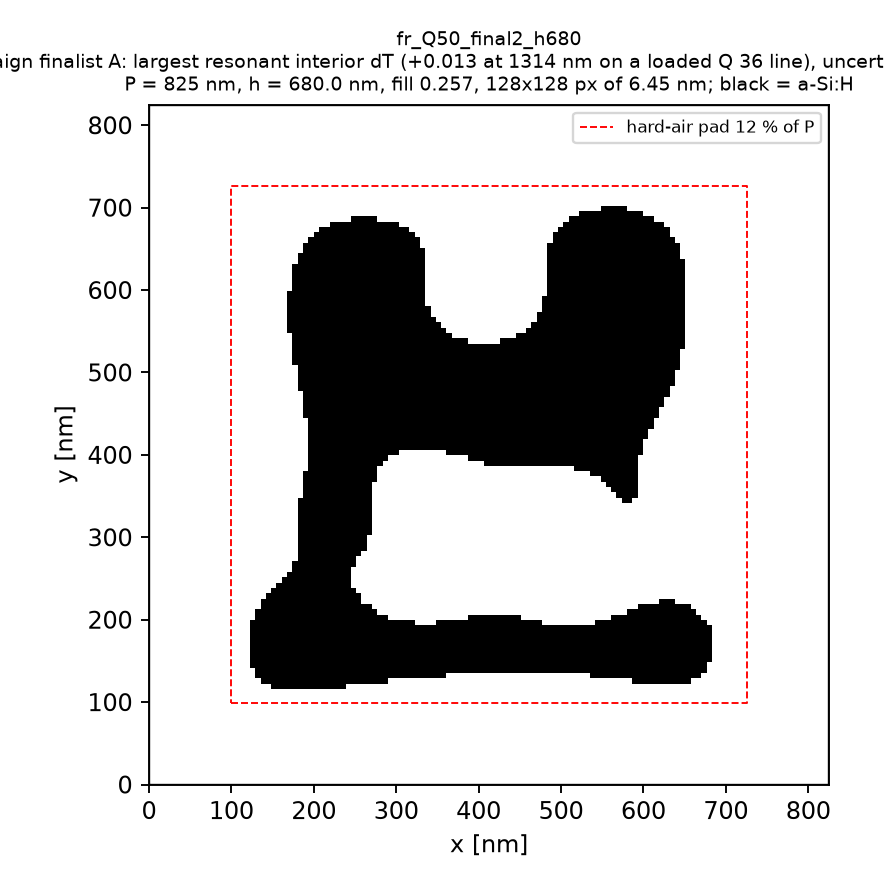
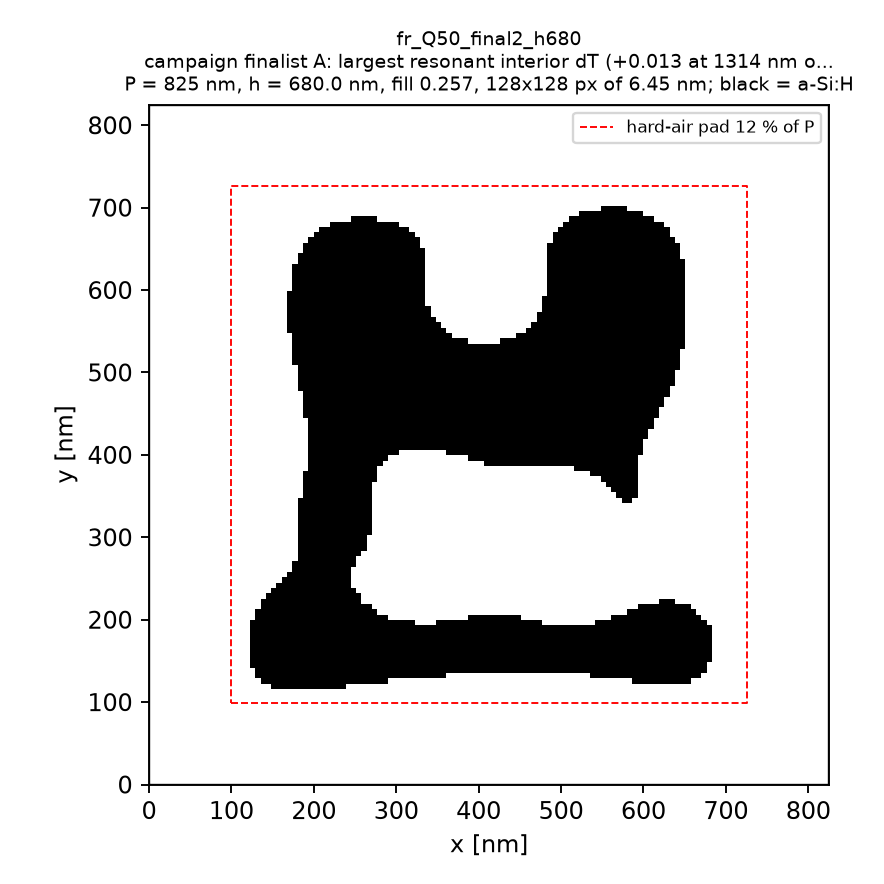
FDTDX validation: report section 15 (cross-check table, final reporting items), overview figure titles, manifest consistent with the recorded field wavelengths
Claude-Session: https://claude.ai/code/session_01XoECjUQZwmMZ4dNdjztZeN

Changed region(s): [[0.0, 0.0611, 1.0, 0.0916]]

diff --git a/enz_jz_inverse_design/qdz_activation/fdtdx_validation/register_finalists.py b/enz_jz_inverse_design/qdz_activation/fdtdx_validation/register_finalists.py
@@ -34,7 +34,7 @@ def geometry_png(rho, P, h, pad_frac, tag, role, path, ax=None):
         ax.plot([p, P - p, P - p, p, p], [p, p, P - p, P - p, p], "r--", lw=0.8, label=f"hard-air pad {pad_frac*100:.0f} % of P")
         ax.legend(fontsize=7, loc="upper right")
     ax.set_aspect("equal"); ax.set_xlabel("x [nm]"); ax.set_ylabel("y [nm]")
-    ax.set_title(f"{tag}\n{role}\nP = {P:.0f} nm, h = {h:.1f} nm, fill {rho.mean():.3f}, {rho.shape[0]}x{rho.shape[1]} px of {P/rho.shape[0]:.2f} nm; black = a-Si:H", fontsize=8)
+    ax.set_title(f"{tag}\n{role[:70] + ('...' if len(role) > 70 else '')}\nP = {P:.0f} nm, h = {h:.1f} nm, fill {rho.mean():.3f}, {rho.shape[0]}x{rho.shape[1]} px of {P/rho.shape[0]:.2f} nm; black = a-Si:H", fontsize=8)
     if own:
         fig.tight_layout(); fig.savefig(path, dpi=170); plt.close(fig)
 

diff --git a/enz_jz_inverse_design/qdz_activation/REPORT.md b/enz_jz_inverse_design/qdz_activation/REPORT.md
@@ -442,7 +442,54 @@ five a-Si:H depths, every ITO cell, five glass depths; one colour scale per wave
 log) with `.npz`; `Ez2_{xz,yz}_<tag>_<lam>nm.png` drawn with `pcolormesh` on the true non-uniform z edges (the
 23-nm ITO is read back at 23.00 nm in every run).
 
-FDTDX_RESULTS_PLACEHOLDER
+**Runs (`VALIDATION_SUMMARY.md` sections 2-4).**  All four candidates completed on the CPU backend (64 x 64 in-plane
+cells, 154-245 z cells, 34580-50435 steps, 690-1680 s each); no artefacts (R_max <= 0.33, T_min >= 0.06, A_min >= 0.05,
+TFSF leakage <= 2.5e-6 of P_inc), the ITO is read back at 23.00 nm from the true cell edges in every run, end-of-run probe
+fields are 1e-4-3e-3 of the peak (2.6e-2 in the ITO of finalist A, whose loaded line is the longest-lived of the three
+450-fs runs), and the early-window certificates show the DFT spectra converged: 450 fs vs 600 fs changes T by at most
+0.0056 for the cylinder (300 fs was not enough: 0.040), and 300 vs 450 fs by 0.034 (finalist A), 0.002 (finalist B),
+0.0001 (control).
+
+**H. Cross-check against TORCWA (same frozen geometry, same supplied materials, [9,9]):**
+
+| candidate | line depth / absorption (TORCWA -> FDTDX) | position | line shape after the shift | ITO <\|Ez\|^2>, F_z, A at equivalent detuning |
+|---|---|---|---|---|
+| deck cylinder | T_min 0.215 -> 0.213, A_max 0.465 -> 0.463 | FDTDX 5.5 nm blue of TORCWA (1292.5 -> 1286.0 nm); material fits explain 0.0 nm | rms dT 0.009, max dT / dR / dA 0.021 / 0.013 / 0.019 | 7.93 / 0.365 / 0.396 vs 7.76 / 0.350 / 0.380 at 1279 nm (2-4 %) |
+| finalist A (fr_Q50_final2_h680) | T_min 0.073 -> 0.060, A_max 0.900 -> 0.918 | 21.5 nm blue in FDTDX; 0.0 nm from material fits | rms dT 0.016, max 0.027 / 0.043 / 0.061 | 16.4 / 0.846 / 0.898 vs 17.8 / 0.869 / 0.916 at 1314 nm (2-8 %) |
+| finalist B (pilot_h525_Q50_fresh8080) | T_min 0.129 -> 0.140, A_max 0.758 -> 0.742 | 9.5 nm red in FDTDX (broadband, weakly defined); -1.0 nm from material fits | rms dT 0.013 (0.017 without any shift) | 15.5 / 0.675 / 0.702 vs 14.4 / 0.636 / 0.660 at 1271 nm (5-8 %) |
+| control (fr_Q200_fresh4242_h700) | flat: T 0.85-0.92, A <= 0.13 in both solvers; no loaded line in either | not defined (featureless) | rms dT 0.010 | 0.5-1.2 / 0.03-0.05 / 0.06-0.09 vs 0.5-0.8 / 0.03-0.04 / 0.06-0.07 |
+
+**L. Final reporting.**
+1. *Established by TORCWA:* the Stage A/B ranking of sections 7-13, the loss of the fresh4242 line under loading, the
+   cylinder's near-critically-coupled loaded line (exact loss scaling: Q_rad 86, Q_nr 126) and its dT = +0.019 at 1279 nm.
+2. *Independently reproduced by FDTDX:* the loaded line of the cylinder (depth, width, absorption), the strong
+   ITO-loaded absorption of both campaign finalists (A 0.74-0.92) with T of 0.06-0.2, the ABSENCE of any loaded line for
+   the campaign's transmissive high-Q / high-eta_Dz parent (T 0.85-0.92, A <= 0.09 across the whole window), and the ITO
+   longitudinal field enhancement (<|Ez/E_inc|^2> = 8 for the cylinder, 14-18 for the two finalists, < 1 for the
+   control) to 2-8 % at equivalent detuning.
+3. *What differs:* spectral positions.  FDTDX is blue-shifted by 5.5 nm for the cylinder and ~20 nm for the freeform
+   825-nm cells; the material fits contribute 0-1 nm (checked by re-running TORCWA with the FDTDX ADE models), so the
+   shift is the 64 x 64 sub-pixel raster (12.9-nm cells against 6.4-nm design pixels) plus the 12.9-nm a-Si:H z cells.
+   At a FIXED wavelength on a steep shoulder this is a large difference (cylinder at 1279 nm: T 0.55 TORCWA vs 0.40 FDTDX);
+   after the shift the residual is 0.01-0.02 rms.  The four-finalists package had seen the same ~10-nm class of shifts.
+4. *Does the longitudinal ENZ-field picture survive?*  Yes: in every FDTDX field set |Ez|^2 peaks inside the 23-nm ITO
+   (top ITO cell: 53 for the cylinder, 120 for finalist A, 112 for finalist B, 1-2 for the control), |Dz|^2 is continuous
+   through the ITO / glass interface while |Ez|^2 jumps by |eps_glass/eps_ITO|^2, the enhancement decays into the glass
+   over ~100 nm, and the control shows no ITO field enhancement, exactly as TORCWA's F_z, eta_z and <|Ez|^2> say.
+5. *Raw files behind each plot:* `VALIDATION_SUMMARY.md` section 5 and `<tag>/metadata/plot_manifest.json` (raw
+   phasors, SHA256, reference run, geometry SHA256, volume block, boundaries, colour scales).
+6. *Regions not sampled by the volume detector:* the glass deeper than ~620 nm below the ITO (24 coarse cells) and the
+   air more than ~100 nm above the a-Si:H (8 cells); the xz / yz planes cover the full height from PML to PML.
+7. *Numerical limitations:* one in-plane resolution only (64 x 64; a 128 x 128 run costs 4-8 x and was not affordable
+   on the CPU host), so the 5-20-nm spectral shifts are bounded by the TORCWA comparison, not by an FDTD refinement
+   series; 450-fs windows for the three 825-nm cells (certified to <= 0.034 by the 300-fs window; finalist A's ITO probe
+   still at 2.6e-2 of its peak); the cylinder needed 600 fs; the TFSF/CPML artefacts of the four-finalists package near
+   the glass Rayleigh cut-off (1251-1265 nm) are inherited and this band was excluded from the shift fit; single-pass
+   CPU runs, no GPU.
+
+Figures to look at: `fdtdx_validation/geometry_all_candidates.png`; per candidate `spectra/spectra_<tag>.png`,
+`profiles/zprofile_<tag>.png`, `xy_slices/Ez2_xy_slices_<tag>_<lam>nm_{lin,log}.png`, `xz_yz/Ez2_{xz,yz}_<tag>_<lam>nm.png`.
+
 
 
 
